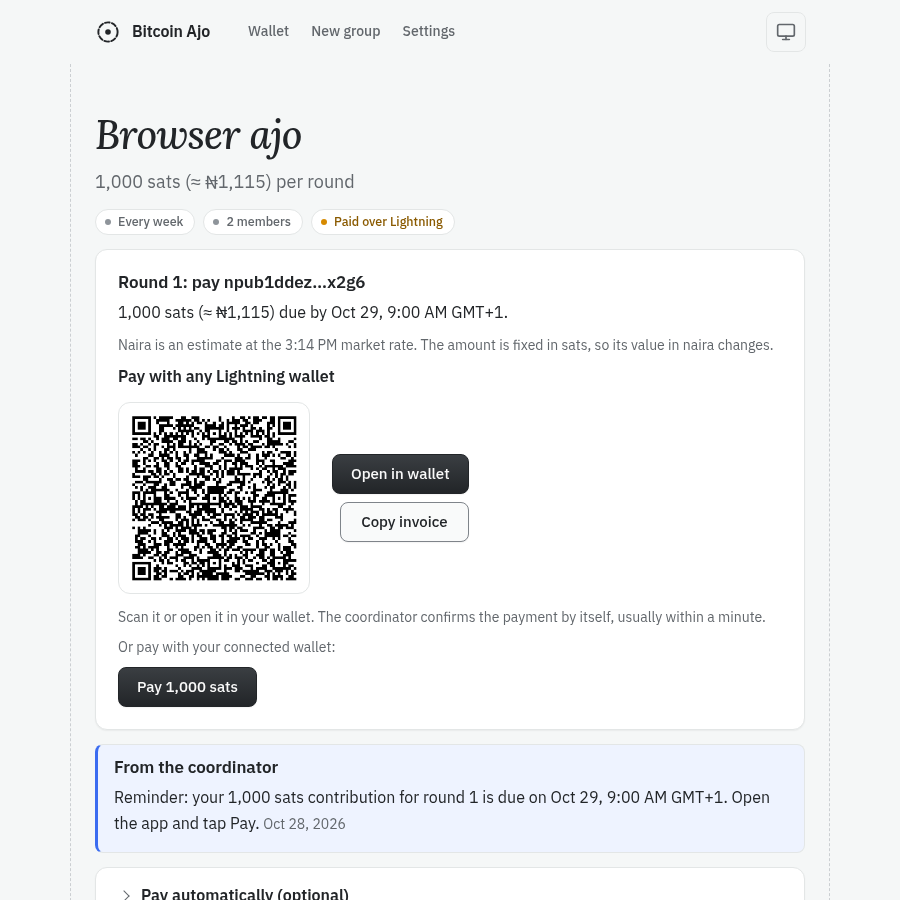
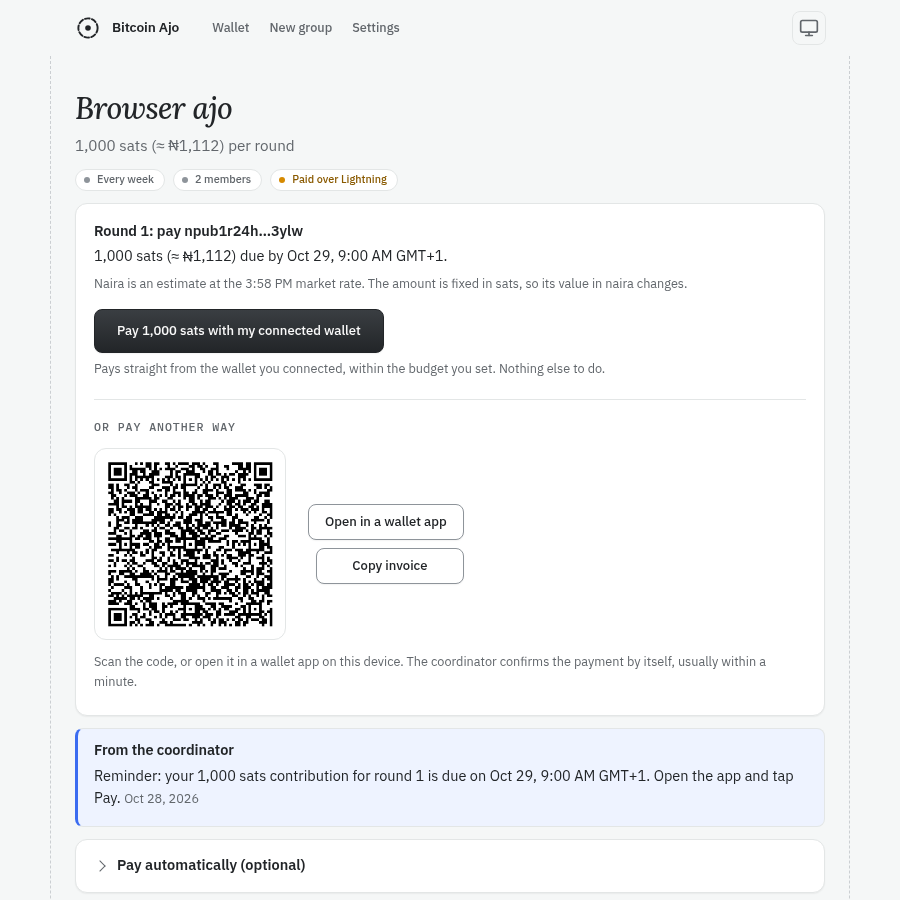
Pay card: one main action (connected wallet or browser extension), other ways under 'Or pay another way', clearer labels; fix tests for the AI box

diff --git a/apps/web/src/pages/GroupPage.tsx b/apps/web/src/pages/GroupPage.tsx
@@ -310,6 +310,8 @@ function ActionCard({ ctx, group, groupKey, activity, round, onPaid }: {
 
   // A Lightning extension in the browser (WebLN) can pay without any connection being set up.
   const hasExtension = !!weblnProvider();
+  /** One clear main action when a wallet can pay in one tap (a connected wallet, or a browser extension). */
+  const hasPrimary = !!ctx.settings.nwcUrl || hasExtension;
   const payExtension = async () => {
     if (status !== 'idle') return;
     setError(undefined);
@@ -342,14 +344,29 @@ function ActionCard({ ctx, group, groupKey, activity, round, onPaid }: {
       {activity.autopay && <p className="muted">Auto-pay is on, so the coordinator will pay this for you. You can also pay now.</p>}
       {!invoice && <p className="muted">Waiting for the coordinator to get your invoice from the recipient.</p>}
       {expired && <p className="muted">The invoice has expired. The coordinator issues a fresh one automatically, usually within a minute, and it will appear here.</p>}
+      {usable && hasPrimary && (
+        <div className="primary-pay">
+          <button aria-busy={status === 'paying'} disabled={status === 'paying'} onClick={ctx.settings.nwcUrl ? pay : payExtension}>
+            {status === 'paying'
+              ? (ctx.settings.nwcUrl ? 'Paying…' : 'Waiting for your wallet…')
+              : `Pay ${formatSats(group.amountSats)} with my ${ctx.settings.nwcUrl ? 'connected' : 'browser'} wallet`}
+          </button>
+          <p className="muted small">
+            {ctx.settings.nwcUrl
+              ? 'Pays straight from the wallet you connected, within the budget you set. Nothing else to do.'
+              : 'Your wallet extension will ask you to approve this payment.'}
+          </p>
+        </div>
+      )}
+      {error && <p className="error">{error}</p>}
       {usable && (
-        <>
-          <p><strong>Pay with any Lightning wallet</strong></p>
+        <div className={hasPrimary ? 'alt-pay' : undefined}>
+          <h3>{hasPrimary ? 'Or pay another way' : 'Pay with any Lightning wallet'}</h3>
           <InvoiceQr invoice={invoice} />
           <p className="muted small">
             {autoConfirm
-              ? 'Scan it or open it in your wallet. The coordinator confirms the payment by itself, usually within a minute.'
-              : "Scan it or open it in your wallet. This recipient's provider can't confirm payments by itself, so afterwards paste the payment proof below, or pay with a connected wallet."}
+              ? 'Scan the code, or open it in a wallet app on this device. The coordinator confirms the payment by itself, usually within a minute.'
+              : "Scan the code, or open it in a wallet app on this device. This recipient's provider can't confirm payments by itself, so afterwards paste the payment proof below."}
           </p>
           {!autoConfirm && (
             <details>
@@ -360,23 +377,8 @@ function ActionCard({ ctx, group, groupKey, activity, round, onPaid }: {
               <button type="button" className="secondary" aria-busy={status === 'paying'} disabled={!proof.trim() || status === 'paying'} onClick={submitProof}>Submit proof</button>
             </details>
           )}
-          {ctx.settings.nwcUrl ? (
-            <p className="muted small">Or pay with your connected wallet:</p>
-          ) : (
-            <p className="muted small">Tip: <a href="#/wallet">connect a wallet</a> to pay with one tap instead.</p>
-          )}
-        </>
-      )}
-      {error && <p className="error">{error}</p>}
-      {usable && !ctx.settings.nwcUrl && hasExtension && (
-        <button aria-busy={status === 'paying'} disabled={status === 'paying'} onClick={payExtension}>
-          {status === 'paying' ? 'Waiting for your wallet…' : `Pay ${formatSats(group.amountSats)} with my browser wallet`}
-        </button>
-      )}
-      {usable && ctx.settings.nwcUrl && (
-        <button aria-busy={status === 'paying'} disabled={status === 'paying'} onClick={pay}>
-          {status === 'paying' ? 'Paying…' : `Pay ${formatSats(group.amountSats)}`}
-        </button>
+          {!hasPrimary && <p className="muted small">Tip: <a href="#/wallet">connect a wallet</a> to pay with one tap instead.</p>}
+        </div>
       )}
     </section>
   );

diff --git a/apps/web/e2e/browser.ts b/apps/web/e2e/browser.ts
@@ -48,8 +48,8 @@ try {
   await amount!.type('1000');
   // this test adds members by their keys; invite links have their own test
   await page.evaluate(() => { [...document.querySelectorAll('label.radio')].find((l) => l.textContent?.includes('already have'))!.querySelector('input')!.click(); });
-  await page.waitForSelector('textarea');
-  const members = await page.$('textarea');
+  await page.waitForSelector('form:not(.describe) textarea');
+  const members = await page.$('form:not(.describe) textarea'); // the members box (the "Describe your group" box is outside the form)
   await members!.click({ clickCount: 3 });
   await page.keyboard.press('Backspace');
   await members!.type(`${nip19.npubEncode(getPublicKey(recipientKey))}\n${nip19.npubEncode(mePub)}`);

diff --git a/apps/web/src/styles.css b/apps/web/src/styles.css
@@ -306,3 +306,9 @@ details[open] > summary { margin-bottom: 8px; }
   button[aria-busy="true"]::before, .dots { animation-duration: 2.4s !important; }
   .skeleton { animation: none; }
 }
+
+/* ---------- paying a round: one main action, other ways underneath ---------- */
+.primary-pay { margin: 16px 0 4px; }
+.primary-pay button { min-height: 44px; padding: 0 22px; }
+.alt-pay { margin-top: 20px; padding-top: 6px; border-top: 1px solid var(--border); }
+.alt-pay h3 { font-size: .8rem; font-weight: 500; text-transform: uppercase; letter-spacing: .08em; color: var(--muted); font-family: var(--mono); margin: 12px 0 8px; }

diff --git a/apps/web/src/components/InvoiceQr.tsx b/apps/web/src/components/InvoiceQr.tsx
@@ -27,7 +27,7 @@ export function InvoiceQr({ invoice }: { invoice: string }) {
     <div className="qr">
       {src && <img src={src} alt="Lightning invoice QR code" width={192} height={192} />}
       <div className="qr-actions">
-        <a className="button" href={`lightning:${invoice}`}>Open in wallet</a>
+        <a className="button secondary" href={`lightning:${invoice}`}>Open in a wallet app</a>
         <button type="button" className="secondary" onClick={copy}>{copied ? 'Copied' : 'Copy invoice'}</button>
       </div>
     </div>
